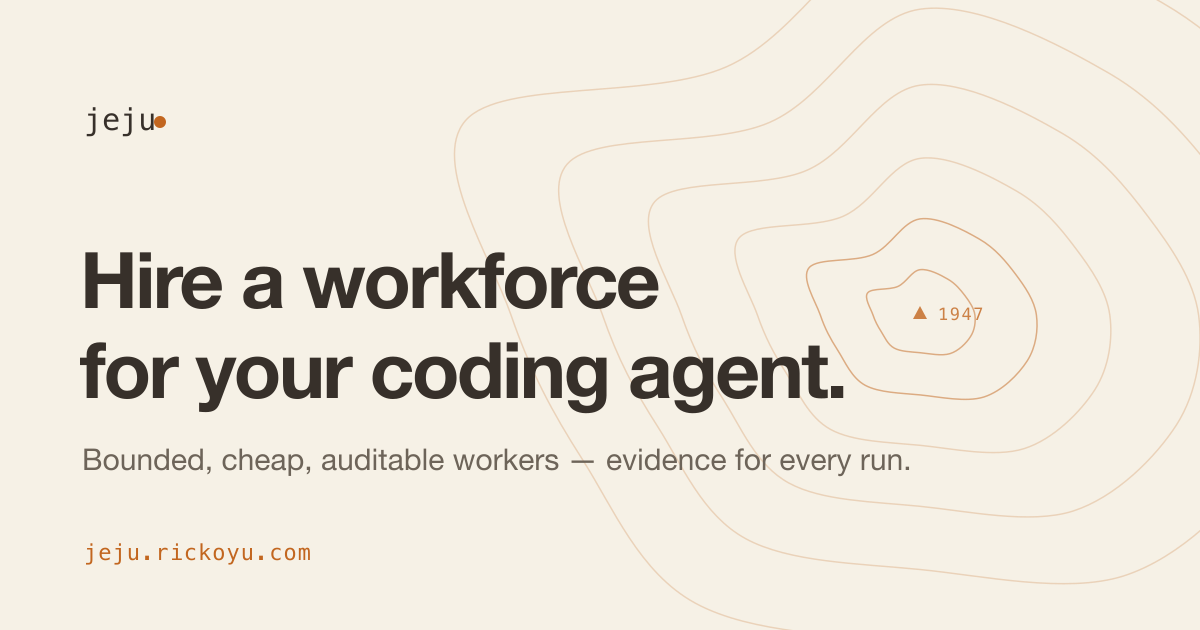
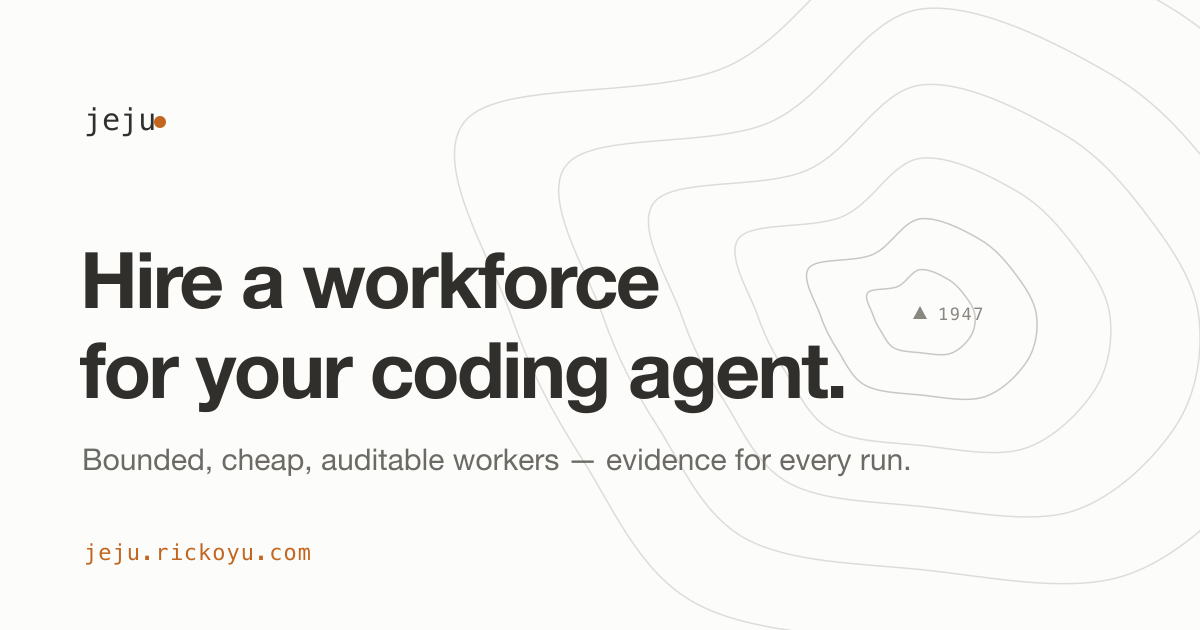
feat(website): switch to swiss white theme with Schibsted Grotesk
Replace the warm-paper look (a recognizable AI-generated aesthetic) with a
near-white swiss engineering treatment:

- Near-white background, near-black ink, recalibrated grays and hairlines
- Schibsted Grotesk replaces Bricolage Grotesque for display and body
- Contour lines and summit marker print gray like a real map; orange is
  strictly functional (CTA, states, keys, cursor, stamps)
- Tighter radii and restrained headline scale for density
- Redesign favicon as a dark terminal chip with a hand-drawn mono "j" and
  tangerine cursor block; regenerate og.png in the white palette
- Footer sign-off finalized: "Make useful things, with care. — Ricko Yu"

diff --git a/.impeccable.md b/.impeccable.md
@@ -38,25 +38,29 @@ than generic dark dev-tool. English by default; trust through precision,
 evidence, and restraint. Personal project by cosmtrek (Ricko Yu, author of
 `air`) — identity is part of the trust story ("dogfooded, not demoed").
 
-Aesthetic direction (2026-07 redesign): light-first "paper" theme — warm paper
-background `oklch(96.5% 0.01 85)` with basalt ink text `oklch(24% 0.015 60)`
-(all neutrals tinted toward the tangerine hue). Hallabong tangerine in two
-roles: text-safe terracotta `oklch(55% 0.145 45)` for section indexes,
-YAML/JSON keys, deny states, wordmark dot; brighter fill `oklch(67% 0.165 48)`
-for the CTA and selection. Sea teal (`oklch(48% 0.09 195)` on paper) only for
-allow/verified states. The hero "run replay" terminal is the one dark object
-on the page — it re-declares the palette tokens on `.replay` (basalt
+Aesthetic direction (2026-07 redesign, "Swiss engineering white"): near-white
+background `oklch(99% 0.002 90)` with near-black ink `oklch(21% 0.006 70)` —
+deliberately NOT warm cream (cream + quirky grotesque + terracotta is the
+2025-26 AI-slop formula; severity reads human). Hallabong tangerine in two
+roles: text-safe terracotta `oklch(55% 0.145 45)` for YAML/JSON keys, deny
+states, wordmark dot, stamps; brighter fill `oklch(67% 0.165 48)` for the CTA
+and selection. Orange is strictly functional — section indexes and contour
+lines are printed gray like a real map. Sea teal (`oklch(46% 0.09 195)`) only
+for allow/verified states. The hero "run replay" terminal is the one dark
+object on the page — it re-declares the palette tokens on `.replay` (basalt
 `oklch(21% 0.012 55)` bg, lighter orange/teal inside) and floats with a soft
-shadow. Type: Bricolage Grotesque (display + body, opsz 12..96) + Sometype
-Mono (labels/code). Hairline dividers, 2–5px radii, uppercase mono
-micro-labels. Jeju-island motif: generated Hallasan contour lines (seeded,
-build-time) in the hero background with a "1947" summit marker; same motif in
-og.png (light) and favicon.svg (kept dark, badge-like). Further island
+shadow. Type: Schibsted Grotesk (display + body; crisp newsroom grotesque,
+not in the AI rotation) + Sometype Mono (labels/code). Hairline dividers,
+0–3px radii, uppercase mono micro-labels, restrained headline sizes (density
+over poster energy). Jeju-island motif: generated Hallasan contour lines
+(seeded, build-time) in the hero background with a gray "1947" summit marker;
+og.png matches (white, gray contours); favicon is a dark terminal chip with a
+hand-drawn mono "j" + tangerine cursor block. Further island
 elements, used sparingly: contour-ring badges before section indexes, a dashed
 map-route pipeline diagram (manifest → compile → run → trajectory → view), a
 rotated circular "EVIDENCE FILED · SHA256 VERIFIED" harbor stamp on the mock
 report card, and a wavy coastline divider with island coordinates above the
-footer. The footer is a minimal colophon: "Make better products. — Ricko Yu" —
+footer. The footer is a minimal colophon: "Make useful things, with care. — Ricko Yu" —
 the reusable personal sign-off across all of Ricko's products (name links to
 rickoyu.com, set in fg weight 600 as the signature) — plus exactly three
 links: GitHub, Docs, Registry. No seal, no avatar, no mascot; keep the footer
